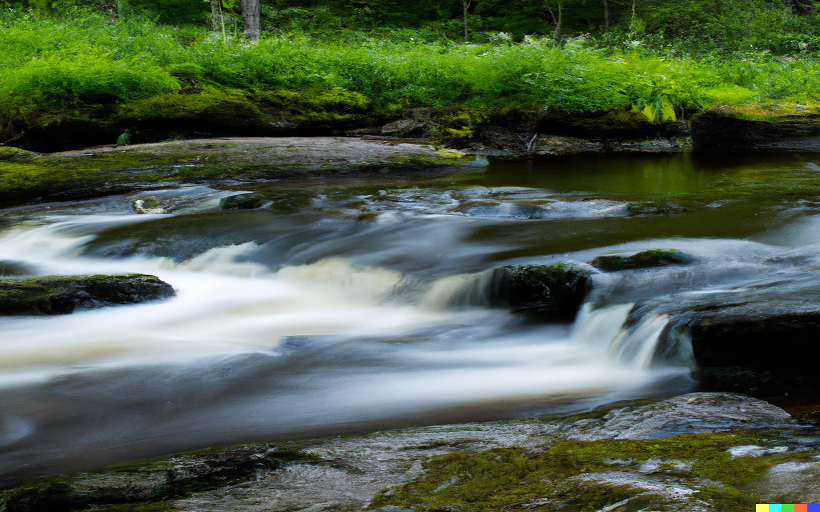
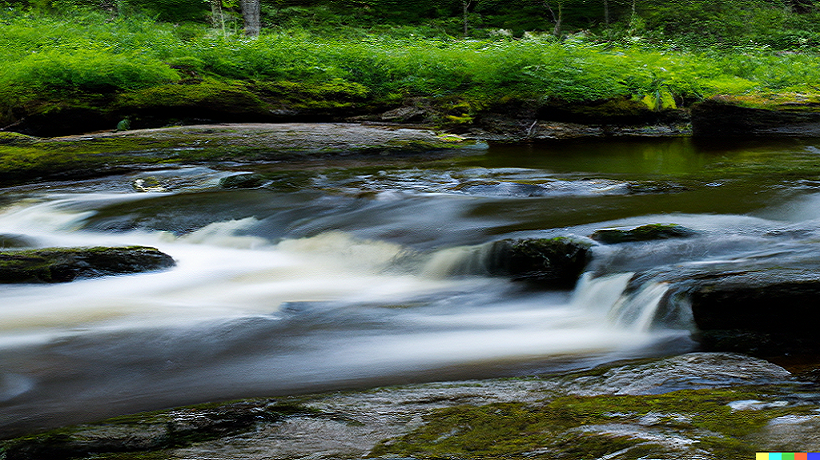
format to page

diff --git a/wwr/rivers.html b/wwr/rivers.html
@@ -36,47 +36,48 @@
         <h1 class="home-title">Have An Adventure</h1>
         <h4>Make Memories with Dry Oar</h4>
         <p>
-            In White Water Rafting we are passionate in what we do and we want to
-            share this with everybody. This amazing experience and adrenaline of
-            rafting with the best guides in the area are just one click away from
-            you..
-          </p>
-          
-          
-          <h1>Rivers</h1>
-          
-          <!-- Replace this with some sort of logo for your site.  A logo can be as simple as the name of your site in a nice font :) -->
-          <img src="images/People enjoying white water rafting2.png" alt="Logo image" />
-            <p>
-                The rivers we offer are the best in the area. We have the best guides in
-                the area that will make sure you have the best experience. We have
-                different rivers for different levels of experience. We have the
-                following rivers:
-            </p>
-            <ul>
-                <li>Colorado River</li>
-                <li>San Juan River</li>
-                <li>Green River</li>
-                <li>Yampa River</li>
-                <li>Arkansas River</li>
-            </ul>
-            <h1>Rates</h1>
-            
-            <img src="images/rapids river in forest2.png" alt="Logo image" />
-            <p>
-                We have different rates for different rivers. We have the following
-                rates:
-            </p>
-            <ul>
-                <li>Colorado River: $100</li>
-                <li>San Juan River: $150</li>
-                <li>Green River: $200</li>
-                <li>Yampa River: $250</li>
-                <li>Arkansas River: $300</li>
-            </ul>
+          In White Water Rafting we are passionate in what we do and we want to
+          share this with everybody. This amazing experience and adrenaline of
+          rafting with the best guides in the area are just one click away from
+          you..
+        </p>
+
+        <h1>Rivers</h1>
+
+        <img
+          src="images/People enjoying white water rafting2.png"
+          alt="Logo image"
+        />
+        <p>
+          The rivers we offer are the best in the area. We have the best guides
+          in the area that will make sure you have the best experience. We have
+          different rivers for different levels of experience. We have the
+          following rivers:
+        </p>
+        <ul>
+          <li>Colorado River</li>
+          <li>San Juan River</li>
+          <li>Green River</li>
+          <li>Yampa River</li>
+          <li>Arkansas River</li>
+        </ul>
+        <h1>Rates</h1>
+
+        <img src="images/rapids river in forest3.png" alt="Logo image" />
+        <p>
+          We have different rates for different rivers. We have the following
+          rates:
+        </p>
+        <ul>
+          <li>Colorado River: $100</li>
+          <li>San Juan River: $150</li>
+          <li>Green River: $200</li>
+          <li>Yampa River: $250</li>
+          <li>Arkansas River: $300</li>
+        </ul>
       </section>
     </div>
-   
+
     <footer>
       <p>Dry Oar &copy; 2022 - Julio Aleman</p>
       <p><a href="site-plan-rafting.html">Site Plan</a></p>

diff --git a/wwr/contactus.html b/wwr/contactus.html
@@ -18,7 +18,7 @@
       </a>
       <nav>
         <a href="index.html">Home</a>
-        <a href="#">Rivers</a>
+        <a href="rivers.html">Rivers</a>
         <a href="site-plan-rafting.html">Site Plan</a>
         <a href="contactus.html">Contact Us</a>
       </nav>
